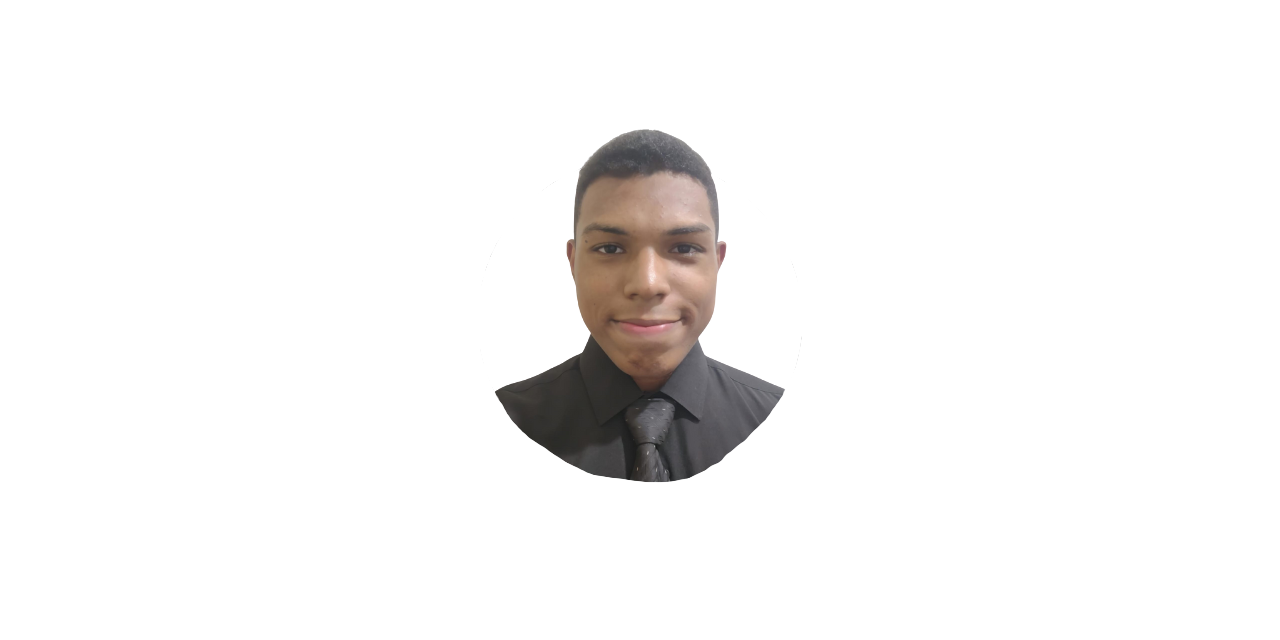
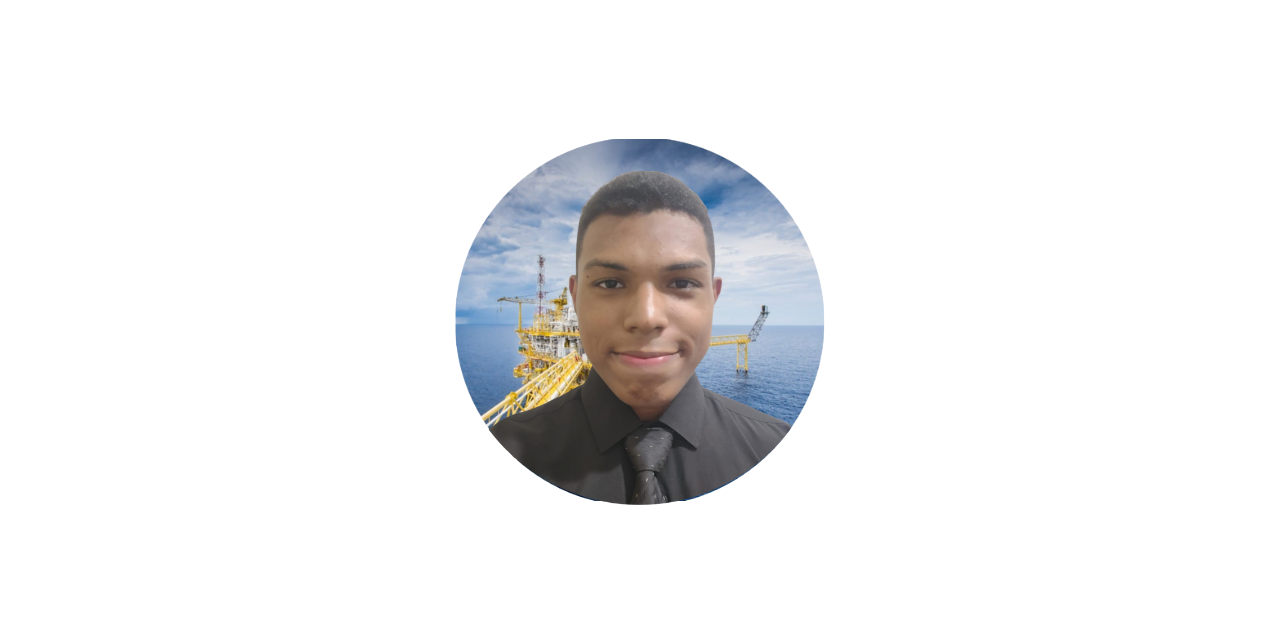
atualização nas fotos do Quem Somos

Changed region(s): [[0.3438, 0.1875, 0.6562, 0.8125]]

diff --git a/Site oficial/index.html b/Site oficial/index.html
@@ -138,7 +138,7 @@
             minima.</p><br><br><br><br><br><br><br><br><br>
         </div>
         <div class="box2">
-          <img class="nos2" src="./img/meki.png">
+          <img class="nos2" src="./img/enrico.png">
           <h4>Enrico Faraldo</h4>
           <p>Lorem ipsum, dolor sit amet consectetur adipisicing elit. Et, quas cupiditate asperiores provident magnam
             vitae illum iusto fugiat atque deleniti nulla sed iure suscipit, laborum, aliquid accusantium cum dicta
